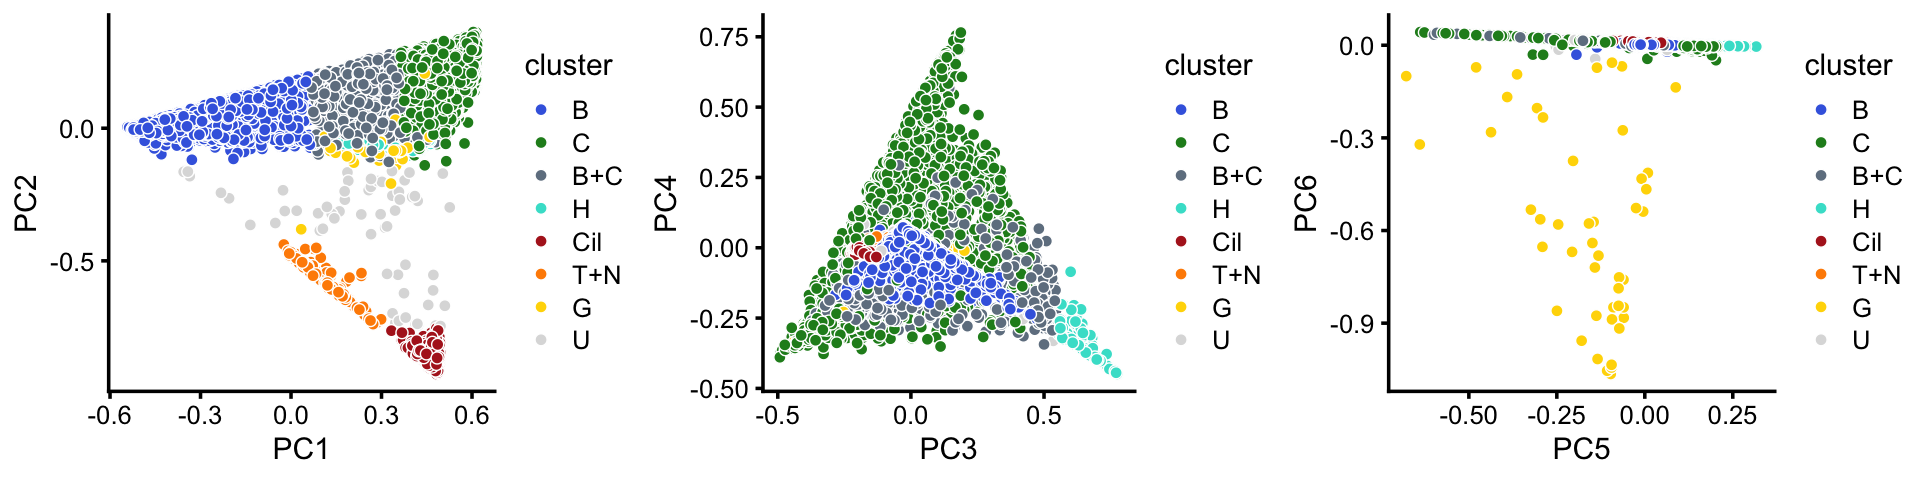
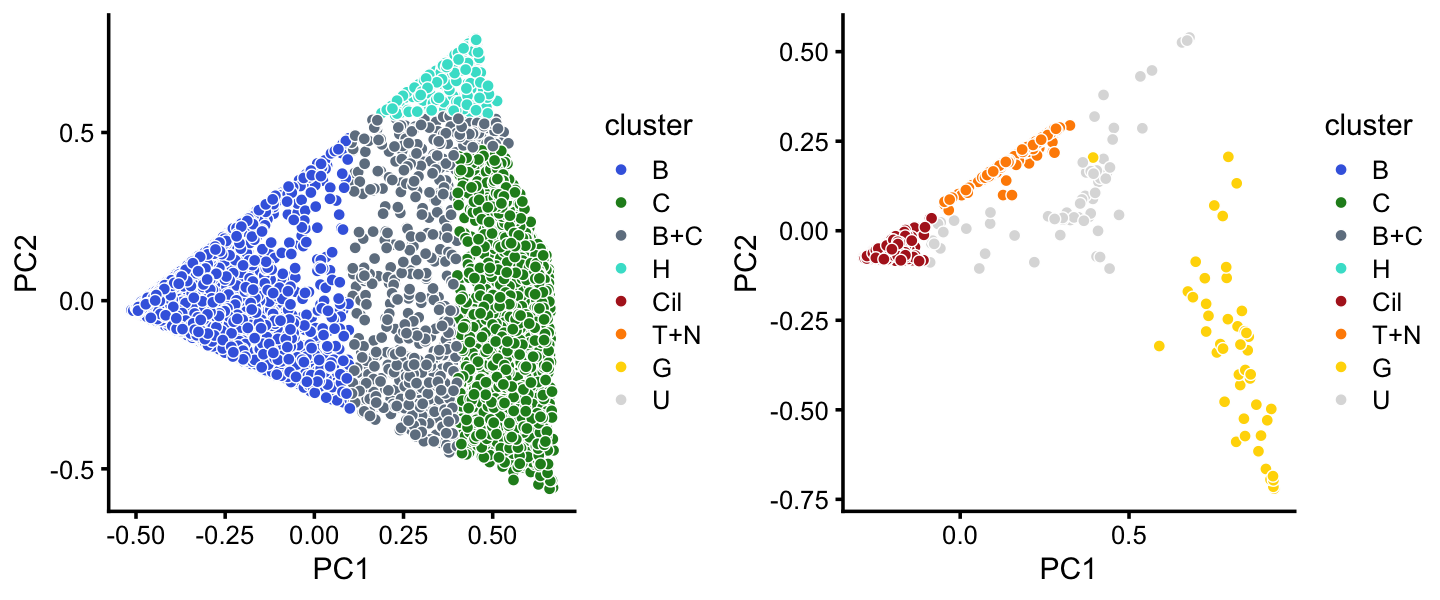
Revised PCA plots showing the clustering in the clusters_droplet analysis.

diff --git a/docs/clusters_droplet.html b/docs/clusters_droplet.html
@@ -323,7 +323,7 @@ $(document).ready(function () {
 <div class="tab-content">
 <div id="summary" class="tab-pane fade in active">
 <p>
-<strong>Last updated:</strong> 2020-10-11
+<strong>Last updated:</strong> 2020-10-15
 </p>
 <p>
 <strong>Checks:</strong> <span class="glyphicon glyphicon-ok text-success" aria-hidden="true"></span> 7 <span class="glyphicon glyphicon-exclamation-sign text-danger" aria-hidden="true"></span> 0
@@ -414,22 +414,23 @@ This reproducible <a href="http://rmarkdown.rstudio.com">R Markdown</a> analysis
 <div class="panel panel-default">
 <div class="panel-heading">
 <p class="panel-title">
-<a data-toggle="collapse" data-parent="#workflowr-checks" href="#strongRepositoryversionstrongahrefhttpsgithubcomstephenslabsinglecelltopicstree60b069fc0b514c4326cf1228d8b0844fa21bef18targetblank60b069fa"> <span class="glyphicon glyphicon-ok text-success" aria-hidden="true"></span> <strong>Repository version:</strong> <a href="https://github.com/stephenslab/single-cell-topics/tree/60b069fc0b514c4326cf1228d8b0844fa21bef18" target="_blank">60b069f</a> </a>
+<a data-toggle="collapse" data-parent="#workflowr-checks" href="#strongRepositoryversionstrongahrefhttpsgithubcomstephenslabsinglecelltopicstree3bff1643a245995de1c9a880422ceecbe7dd92f0targetblank3bff164a"> <span class="glyphicon glyphicon-ok text-success" aria-hidden="true"></span> <strong>Repository version:</strong> <a href="https://github.com/stephenslab/single-cell-topics/tree/3bff1643a245995de1c9a880422ceecbe7dd92f0" target="_blank">3bff164</a> </a>
 </p>
 </div>
[2 lines of base64/hex data omitted]
 <div class="panel-body">
 <p>
 Great! You are using Git for version control. Tracking code development and connecting the code version to the results is critical for reproducibility.
 </p>
 <p>
-The results in this page were generated with repository version <a href="https://github.com/stephenslab/single-cell-topics/tree/60b069fc0b514c4326cf1228d8b0844fa21bef18" target="_blank">60b069f</a>. See the <em>Past versions</em> tab to see a history of the changes made to the R Markdown and HTML files.
+The results in this page were generated with repository version <a href="https://github.com/stephenslab/single-cell-topics/tree/3bff1643a245995de1c9a880422ceecbe7dd92f0" target="_blank">3bff164</a>. See the <em>Past versions</em> tab to see a history of the changes made to the R Markdown and HTML files.
 </p>
 <p>
 Note that you need to be careful to ensure that all relevant files for the analysis have been committed to Git prior to generating the results (you can use <code>wflow_publish</code> or <code>wflow_git_commit</code>). workflowr only checks the R Markdown file, but you know if there are other scripts or data files that it depends on. Below is the status of the Git repository when the results were generated:
 </p>
 <pre><code>
 Ignored files:
+    Ignored:    analysis/figure/
     Ignored:    data/droplet.RData
     Ignored:    data/pbmc_68k.RData
     Ignored:    data/pbmc_purified.RData
@@ -445,11 +446,10 @@ Ignored files:
     Ignored:    output/pulseseq/fits-pulseseq.RData
     Ignored:    output/pulseseq/rds/
 
-Untracked files:
-    Untracked:  analysis/clustering-droplet.rds
-
 Unstaged changes:
-    Modified:   analysis/clusters_pulseseq.Rmd
+    Modified:   analysis/diff_count_droplet.Rmd
+    Modified:   analysis/flashier_droplet.R
+    Modified:   analysis/flashier_pulseseq.R
     Modified:   analysis/plots_tracheal_epithelium.Rmd
 
 </code></pre>
@@ -489,6 +489,40 @@ Message
 </tr>
 </thead>
 <tbody>
+<tr>
+<td>
+Rmd
+</td>
+<td>
+<a href="https://github.com/stephenslab/single-cell-topics/blob/3bff1643a245995de1c9a880422ceecbe7dd92f0/analysis/clusters_droplet.Rmd" target="_blank">3bff164</a>
+</td>
+<td>
+Peter Carbonetto
+</td>
+<td>
+2020-10-15
+</td>
+<td>
+workflowr::wflow_publish(“clusters_droplet.Rmd”, verbose = TRUE)
+</td>
+</tr>
+<tr>
+<td>
+html
+</td>
+<td>
+<a href="https://rawcdn.githack.com/stephenslab/single-cell-topics/c12c1cf48fe13e8f248a46d98666a123aa138961/docs/clusters_droplet.html" target="_blank">c12c1cf</a>
+</td>
+<td>
+Peter Carbonetto
+</td>
+<td>
+2020-10-11
+</td>
+<td>
+Replaced dotplot with boxplot in clusters_pulseseq analysis.
+</td>
+</tr>
 <tr>
 <td>
 Rmd
@@ -1594,8 +1628,10 @@ y[pc1 &lt; 0.1] &lt;- &quot;B&quot;
 y[pc1 &gt; 0.4 &amp; pc2 &lt; 0.45] &lt;- &quot;C&quot;
 y[pc2 &gt; 0.55] &lt;- &quot;H&quot;
 x[rows] &lt;- y</code></pre>
-<p>In summary, we have subdivided the droplet data into 8 subsets.</p>
+<p>In summary, we have subdivided the droplet data into 8 subsets. The substructure is more clear in PCA plots when we split the cells—roughly speaking—by the abundant and rare cell-types.</p>
 <pre class="r"><code>samples$cluster &lt;- factor(x,c(&quot;B&quot;,&quot;C&quot;,&quot;B+C&quot;,&quot;H&quot;,&quot;Cil&quot;,&quot;T+N&quot;,&quot;G&quot;,&quot;U&quot;))
+abundant        &lt;- c(&quot;B&quot;,&quot;C&quot;,&quot;B+C&quot;,&quot;H&quot;)
+rare            &lt;- c(&quot;Cil&quot;,&quot;T+N&quot;,&quot;G&quot;,&quot;U&quot;)
 cluster_colors &lt;- c(&quot;royalblue&quot;,   # B
                     &quot;forestgreen&quot;, # C
                     &quot;slategray&quot;,   # B+C
@@ -1604,17 +1640,18 @@ cluster_colors &lt;- c(&quot;royalblue&quot;,   # B
                     &quot;darkorange&quot;,  # T+N
                     &quot;gold&quot;,        # G
                     &quot;gainsboro&quot;)   # U
-p11 &lt;- pca_plot(poisson2multinom(fit),pcs = 1:2,fill = samples$cluster) +
-       scale_fill_manual(values = cluster_colors) +
-       labs(fill = &quot;cluster&quot;)
-p12 &lt;- pca_plot(poisson2multinom(fit),pcs = 3:4,fill = samples$cluster) +
-       scale_fill_manual(values = cluster_colors) +
-       labs(fill = &quot;cluster&quot;)
-p13 &lt;- pca_plot(poisson2multinom(fit),pcs = 5:6,fill = samples$cluster) +
-       scale_fill_manual(values = cluster_colors) +
-       labs(fill = &quot;cluster&quot;)
-plot_grid(p11,p12,p13,nrow = 1,ncol = 3)</code></pre>
-<p><img src="figure/clusters_droplet.Rmd/clustering-8-1.png" width="960" style="display: block; margin: auto;" /></p>
+rows1 &lt;- which(is.element(samples$cluster,abundant))
+rows2 &lt;- which(is.element(samples$cluster,rare))
+fit1  &lt;- select(poisson2multinom(fit),loadings = rows1)
+fit2  &lt;- select(poisson2multinom(fit),loadings = rows2)
+p11a &lt;- pca_plot(fit1,fill = samples[rows1,&quot;cluster&quot;]) +
+        scale_fill_manual(values = cluster_colors,drop = FALSE) +
+        labs(fill = &quot;cluster&quot;)
+p11b &lt;- pca_plot(fit2,fill = samples[rows2,&quot;cluster&quot;]) +
+        scale_fill_manual(values = cluster_colors,drop = FALSE) +
+        labs(fill = &quot;cluster&quot;)
+plot_grid(p11a,p11b,nrow = 1,ncol = 2)</code></pre>
+<p><img src="figure/clusters_droplet.Rmd/clustering-8-1.png" width="720" style="display: block; margin: auto;" /></p>
 <p>
 <button type="button" class="btn btn-default btn-xs btn-workflowr btn-workflowr-fig" data-toggle="collapse" data-target="#fig-clustering-8-1">
 Past versions of clustering-8-1.png
@@ -1685,6 +1722,22 @@ Peter Carbonetto
 #   Ionocyte          9    0    1    0    0    1    1   14
 #   Neuroendocrine   27    4    6    0    0   51    0    8
 #   Tuft             27    5    5    0    1  111    2    7</code></pre>
+<p>This close correspondence is also clear from the PCA plots:</p>
+<pre class="r"><code>tissue_colors &lt;- c(&quot;royalblue&quot;,   # basal
+                   &quot;firebrick&quot;,   # ciliated
+                   &quot;forestgreen&quot;, # club
+                   &quot;gold&quot;,        # goblet
+                   &quot;darkmagenta&quot;, # ionocyte
+                   &quot;darkorange&quot;,  # neuroendocrine
+                   &quot;skyblue&quot;)     # tuft
+p12a &lt;- pca_plot(fit1,fill = samples[rows1,&quot;tissue&quot;]) +
+        scale_fill_manual(values = tissue_colors,drop = FALSE) +
+        labs(fill = &quot;cluster&quot;)
+p12b &lt;- pca_plot(fit2,fill = samples[rows2,&quot;tissue&quot;]) +
+        scale_fill_manual(values = tissue_colors,drop = FALSE) +
+        labs(fill = &quot;cluster&quot;)
+plot_grid(p12a,p12b,nrow = 1,ncol = 2)</code></pre>
+<p><img src="figure/clusters_droplet.Rmd/clustering-10-1.png" width="720" style="display: block; margin: auto;" /></p>
 <p>By computing inter-cluster and inter-topic expression differences by the <em>total variation distance</em> in relative expression levels, we see that the clusters identified above show greater differentiation in gene expression, and the topics show more differentiation than the clusters.</p>
 <pre class="r"><code>fit_montoro &lt;- init_poisson_nmf_from_clustering(counts,samples$tissue)
 fit_cluster &lt;- init_poisson_nmf_from_clustering(counts,samples$cluster)
@@ -1727,66 +1780,11 @@ print(d_topics,digits = 3)
   rbind(data.frame(method=&quot;montoro.et.al&quot;,d=d_montoro[upper.tri(d_montoro)]),
         data.frame(method=&quot;clusters&quot;,     d=d_cluster[upper.tri(d_cluster)]),
         data.frame(method=&quot;topics&quot;,       d=d_topics[upper.tri(d_topics)]))
-p14a &lt;- ggplot(pdat,aes(x = method,y = d)) +
+p13 &lt;- ggplot(pdat,aes(x = method,y = d)) +
   geom_boxplot(width = 0.25) +
   labs(x = &quot;&quot;,y = &quot;total variation dist&quot;) +
   theme_cowplot(font_size = 9)
-print(p14a)</code></pre>
-<p><img src="figure/clusters_droplet.Rmd/clustering-11-1.png" width="300" style="display: block; margin: auto;" /></p>
-<p>
-<button type="button" class="btn btn-default btn-xs btn-workflowr btn-workflowr-fig" data-toggle="collapse" data-target="#fig-clustering-11-1">
-Past versions of clustering-11-1.png
-</button>
-</p>
-<div id="fig-clustering-11-1" class="collapse">
-<div class="table-responsive">
-<table class="table table-condensed table-hover">
-<thead>
-<tr>
-<th>
-Version
-</th>
-<th>
-Author
-</th>
-<th>
-Date
-</th>
-</tr>
-</thead>
-<tbody>
-<tr>
-<td>
-<a href="https://github.com/stephenslab/single-cell-topics/blob/b6374a110a3a839698ea093c6ea08c6330d9cda1/docs/figure/clusters_droplet.Rmd/clustering-11-1.png" target="_blank">b6374a1</a>
-</td>
-<td>
-Peter Carbonetto
-</td>
-<td>
-2020-10-11
-</td>
-</tr>
-</tbody>
-</table>
-</div>
-</div>
-<p>This next plot provides a more direct comparison of the total variation distances among the 5 clusters that are comparable to the Montoro <em>et al</em> clusters:</p>
-<pre class="r"><code>fit_montoro &lt;- merge_topics(poisson2multinom(fit_montoro),
-                            c(&quot;Tuft&quot;,&quot;Neuroendocrine&quot;))
-d_montoro &lt;- totalvardist(fit_montoro$F[,c(&quot;Basal&quot;,&quot;Ciliated&quot;,&quot;Club&quot;,&quot;Goblet&quot;,
-                                           &quot;Tuft+Neuroendocrine&quot;)])
-d_cluster &lt;-
-  totalvardist(poisson2multinom(fit_cluster)$F[,c(&quot;B&quot;,&quot;Cil&quot;,&quot;C&quot;,&quot;G&quot;,&quot;T+N&quot;)])
-pdat &lt;- data.frame(montoro  = d_montoro[upper.tri(d_montoro)],
-                   clusters = d_cluster[upper.tri(d_cluster)])
-p14b &lt;- ggplot(pdat,aes(x = montoro,y = clusters)) +
-  geom_point(shape = 21,size = 2,color = &quot;white&quot;,fill = &quot;dodgerblue&quot;) +
-  geom_abline(intercept = 0,slope = 1,color = &quot;black&quot;,linetype = &quot;dotted&quot;) +
-  xlim(0.2,0.7) + 
-  ylim(0.2,0.7) + 
-  labs(x = &quot;Montoro et al clusters&quot;,y = &quot;our clusters&quot;) +
-  theme_cowplot(font_size = 9)
-print(p14b)</code></pre>
+print(p13)</code></pre>
 <p><img src="figure/clusters_droplet.Rmd/clustering-12-1.png" width="300" style="display: block; margin: auto;" /></p>
 <p>
 <button type="button" class="btn btn-default btn-xs btn-workflowr btn-workflowr-fig" data-toggle="collapse" data-target="#fig-clustering-12-1">
@@ -1836,6 +1834,24 @@ Peter Carbonetto
 </table>
 </div>
 </div>
+<p>This next plot provides a more direct comparison of the total variation distances among the 5 clusters that are comparable to the Montoro <em>et al</em> clusters:</p>
+<pre class="r"><code>fit_montoro &lt;- merge_topics(poisson2multinom(fit_montoro),
+                            c(&quot;Tuft&quot;,&quot;Neuroendocrine&quot;))
+d_montoro &lt;- totalvardist(fit_montoro$F[,c(&quot;Basal&quot;,&quot;Ciliated&quot;,&quot;Club&quot;,&quot;Goblet&quot;,
+                                           &quot;Tuft+Neuroendocrine&quot;)])
+d_cluster &lt;-
+  totalvardist(poisson2multinom(fit_cluster)$F[,c(&quot;B&quot;,&quot;Cil&quot;,&quot;C&quot;,&quot;G&quot;,&quot;T+N&quot;)])
+pdat &lt;- data.frame(montoro  = d_montoro[upper.tri(d_montoro)],
+                   clusters = d_cluster[upper.tri(d_cluster)])
+p14 &lt;- ggplot(pdat,aes(x = montoro,y = clusters)) +
+  geom_point(shape = 21,size = 2,color = &quot;white&quot;,fill = &quot;dodgerblue&quot;) +
+  geom_abline(intercept = 0,slope = 1,color = &quot;black&quot;,linetype = &quot;dotted&quot;) +
+  xlim(0.2,0.7) + 
+  ylim(0.2,0.7) + 
+  labs(x = &quot;Montoro et al clusters&quot;,y = &quot;our clusters&quot;) +
+  theme_cowplot(font_size = 9)
+print(p14)</code></pre>
+<p><img src="figure/clusters_droplet.Rmd/clustering-13-1.png" width="300" style="display: block; margin: auto;" /></p>
 </div>
 <div id="structure-plot" class="section level2">
 <h2>Structure plot</h2>
@@ -2069,7 +2085,7 @@ Peter Carbonetto
 # [1] stats     graphics  grDevices utils     datasets  methods   base     
 # 
 # other attached packages:
-# [1] cowplot_1.0.0      ggplot2_3.3.0      fastTopics_0.3-179 dplyr_0.8.3       
+# [1] cowplot_1.0.0      ggplot2_3.3.0      fastTopics_0.3-183 dplyr_0.8.3       
 # [5] Matrix_1.2-18     
 # 
 # loaded via a namespace (and not attached):
